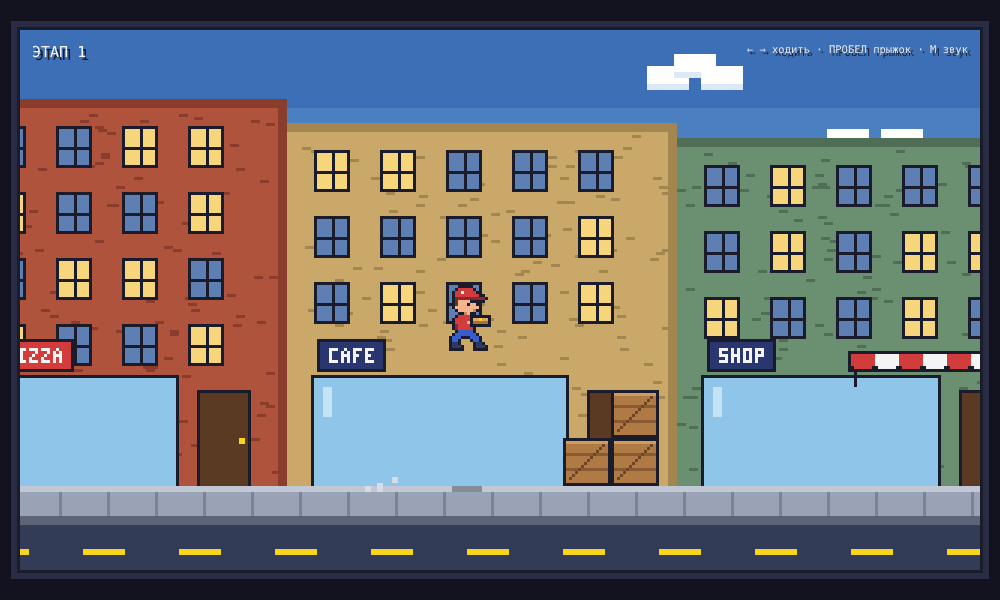
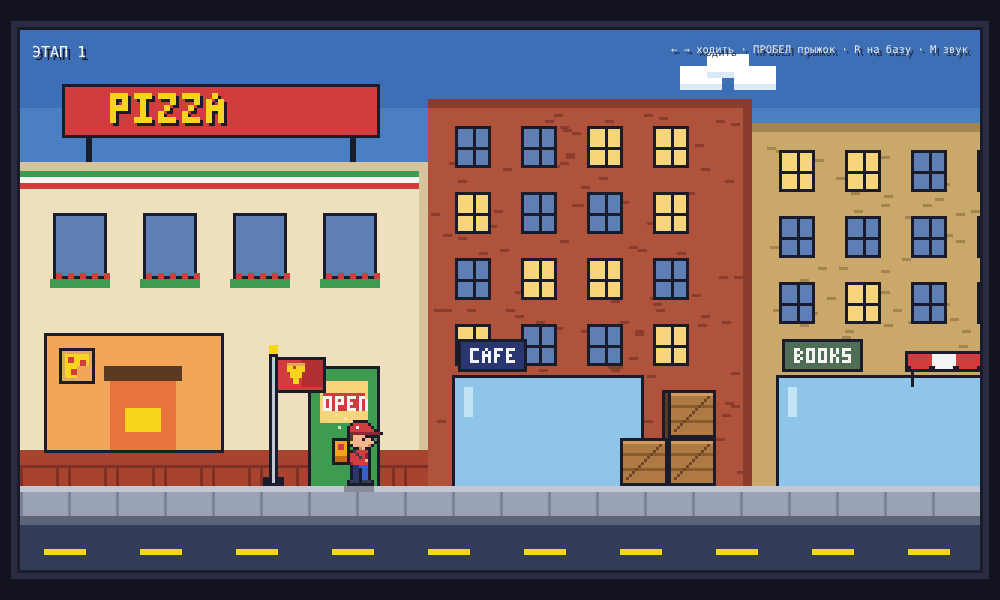
One pizzeria at the start as base and checkpoint; varied shop signs
Claude-Session: https://claude.ai/code/session_015jkYj5TZRwZghbMqW5hfRf

diff --git a/js/game.js b/js/game.js
@@ -116,17 +116,99 @@ const GLYPHS = {
   A: '010101111101101', C: '111100100100111', F: '111100110100100',
   E: '111100110100111', S: '111100111001111', H: '101101111101101',
   O: '111101101101111', '2': '111001111100111', '4': '101101111001001',
-  ' ': '000000000000000',
+  B: '110101110101110', K: '101101110101101', R: '110101110101101',
+  T: '111010010010010', M: '101111111101101', Y: '101101010010010',
+  N: '110101101101101', D: '110101101101110', L: '100100100100111',
+  U: '101101101101111', ' ': '000000000000000',
 };
 
-function pixelText(g, text, x, y, color) {
+function pixelText(g, text, x, y, color, size = 1) {
   g.fillStyle = color;
   [...text].forEach((ch, i) => {
     const bits = GLYPHS[ch] || GLYPHS[' '];
     for (let p = 0; p < 15; p++) {
-      if (bits[p] === '1') g.fillRect(x + i * 4 + (p % 3), y + Math.floor(p / 3), 1, 1);
+      if (bits[p] === '1') g.fillRect(x + (i * 4 + (p % 3)) * size, y + Math.floor(p / 3) * size, size, size);
     }
   });
+}
+
+// The one pizzeria: the courier's base and the checkpoint.
+const PIZZERIA = { x: 0, w: 136 };
+const CHECKPOINT = { x: 104, flagX: 84 }; // respawn spot and the flagpole
+
+function drawPizzeria(g) {
+  const { x, w } = PIZZERIA;
+  const top = 44;
+  // Cream plaster with a red-brick base
+  g.fillStyle = '#efe0bd';
+  g.fillRect(x, top, w, GROUND_Y - top);
+  g.fillStyle = '#d6c399';
+  g.fillRect(x, top, w, 3);
+  g.fillRect(x + w - 3, top, 3, GROUND_Y - top);
+  g.fillStyle = '#a8432f';
+  g.fillRect(x, 140, w, 12);
+  g.fillStyle = '#7f3022';
+  for (let bx = x; bx < x + w; bx += 8) g.fillRect(bx + ((bx / 8) % 2) * 4, 145, 1, 7);
+  g.fillRect(x, 145, w, 1);
+  // Rooftop sign
+  g.fillStyle = '#1a1c2c';
+  g.fillRect(x + 22, top - 22, 2, 22);
+  g.fillRect(x + w - 26, top - 22, 2, 22);
+  g.fillRect(x + 14, top - 26, w - 30, 18);
+  g.fillStyle = '#d23c3c';
+  g.fillRect(x + 15, top - 25, w - 32, 16);
+  pixelText(g, 'PIZZA', x + 31, top - 22, '#1a1c2c', 2);
+  pixelText(g, 'PIZZA', x + 30, top - 23, '#f7d51d', 2);
+  // Italian stripe under the roof
+  [['#3e9b4f', 0], ['#f4f4f4', 1], ['#d23c3c', 2]].forEach(([c, i]) => {
+    g.fillStyle = c;
+    g.fillRect(x, top + 3 + i * 2, w - 3, 2);
+  });
+  // Upper windows with flower boxes
+  for (let wx = x + 12; wx < x + w - 20; wx += 30) {
+    g.fillStyle = '#1a1c2c';
+    g.fillRect(wx - 1, 61, 18, 22);
+    g.fillStyle = '#5e7fb3';
+    g.fillRect(wx, 62, 16, 20);
+    g.fillStyle = '#3e9b4f';
+    g.fillRect(wx - 2, 83, 20, 3);
+    g.fillStyle = '#d23c3c';
+    for (let f = 0; f < 5; f++) g.fillRect(wx + f * 4, 81, 2, 2);
+  }
+  // Shop window glowing from the pizza oven
+  g.fillStyle = '#1a1c2c';
+  g.fillRect(x + 8, 101, 60, 40);
+  g.fillStyle = '#f2a65a';
+  g.fillRect(x + 9, 102, 58, 38);
+  g.fillStyle = '#e8743b';
+  g.fillRect(x + 30, 116, 22, 24);
+  g.fillStyle = '#5a3a22';
+  g.fillRect(x + 28, 112, 26, 5);
+  g.fillStyle = '#f7d51d';
+  g.fillRect(x + 35, 126, 12, 8);
+  // Pizza drawn on the glass
+  g.fillStyle = '#1a1c2c';
+  g.fillRect(x + 13, 106, 12, 12);
+  g.fillStyle = '#e2a95c';
+  g.fillRect(x + 14, 107, 10, 10);
+  g.fillStyle = '#f7d51d';
+  g.fillRect(x + 15, 108, 8, 8);
+  g.fillStyle = '#d23c3c';
+  [[16, 109], [20, 110], [17, 113], [21, 114]].forEach(([px, py]) => g.fillRect(x + px, py, 2, 2));
+  g.fillStyle = '#f2a65a';
+  g.fillRect(x + 19, 112, 5, 5); // missing slice
+  // Door with an OPEN plate
+  g.fillStyle = '#1a1c2c';
+  g.fillRect(x + 96, 112, 24, 40);
+  g.fillStyle = '#3e9b4f';
+  g.fillRect(x + 97, 113, 22, 39);
+  g.fillStyle = '#f7d57a';
+  g.fillRect(x + 100, 117, 16, 14);
+  g.fillStyle = '#d23c3c';
+  g.fillRect(x + 101, 121, 14, 6);
+  pixelText(g, 'OPEN', x + 101, 122, '#f4f4f4');
+  g.fillStyle = '#f7d51d';
+  g.fillRect(x + 115, 136, 2, 2);
 }
 
 // Street facades, drawn at full scroll speed behind the courier.
@@ -136,8 +218,12 @@ const street = layer(WORLD_W, VIEW_H, (g) => {
     ['#b0533c', '#8a3d2c'], ['#c9a86a', '#a3854f'], ['#6b8f71', '#4f6e55'],
     ['#9a6fa5', '#77517f'], ['#c77d4e', '#9e5e37'],
   ];
-  const signs = ['PIZZA', 'CAFE', 'SHOP', '24', 'PIZZA'];
-  let x = 0;
+  const signs = [
+    ['CAFE', '#29366f'], ['BOOKS', '#4f6e55'], ['MARKET', '#c06f12'],
+    ['SHOP', '#29366f'], ['BAKERY', '#77517f'], ['24', '#1a1c2c'],
+  ];
+  drawPizzeria(g);
+  let x = PIZZERIA.x + PIZZERIA.w;
   let n = 0;
   while (x < WORLD_W) {
     const bw = 96 + Math.floor(r() * 48);
@@ -179,11 +265,11 @@ const street = layer(WORLD_W, VIEW_H, (g) => {
     g.fillStyle = '#f7d51d';
     g.fillRect(x + bw - 16, 136, 2, 2);
     // Sign
-    const label = signs[n % signs.length];
+    const [label, signColor] = signs[n % signs.length];
     const sw = label.length * 4 + 5;
     g.fillStyle = '#1a1c2c';
     g.fillRect(x + 10, 103, sw + 2, 11);
-    g.fillStyle = label === 'PIZZA' ? '#d23c3c' : '#29366f';
+    g.fillStyle = signColor;
     g.fillRect(x + 11, 104, sw, 9);
     pixelText(g, label, x + 14, 106, '#f4f4f4');
     x += bw;
@@ -272,6 +358,7 @@ function press(action) {
 
 window.addEventListener('keydown', (e) => {
   if (e.code === 'KeyM') { muted = !muted; return; }
+  if (e.code === 'KeyR' && started) { respawn(); return; }
   const action = KEYMAP[e.code];
   if (!action) { if (!started) start(); return; }
   e.preventDefault();
@@ -296,6 +383,10 @@ document.querySelectorAll('[data-action]').forEach((btn) => {
   btn.addEventListener('pointercancel', release);
 });
 canvas.addEventListener('pointerdown', () => { if (!started) start(); });
+document.querySelector('[data-base]').addEventListener('pointerdown', (e) => {
+  e.preventDefault();
+  if (started) respawn(); else start();
+});
 
 function start() {
   started = true;
@@ -306,7 +397,7 @@ function start() {
 // ---------- Courier ----------
 
 const player = {
-  x: 40, y: GROUND_Y - 24,
+  x: CHECKPOINT.x, y: GROUND_Y - 24,
   vx: 0, vy: 0,
   w: 10, h: 22, ox: 4, oy: 2, // hitbox inside the 18x24 sprite, centred on the body
   facing: 1,
@@ -438,6 +529,80 @@ function update(dt) {
   }
 }
 
+// ---------- Checkpoint ----------
+
+let awayFromBase = false; // set once the courier has walked off, so returning can be announced
+let flagCheer = 0;        // seconds left on the flag's celebration
+
+function respawn() {
+  puff(player.x + 9, player.y + 24, 8);
+  Object.assign(player, { x: CHECKPOINT.x, y: GROUND_Y - 24, vx: 0, vy: 0, facing: 1, landTime: 0, skidTime: 0 });
+  awayFromBase = false;
+  puff(player.x + 9, player.y + 24, 8);
+  beep(880, 220, 0.25, 'square', 0.05);
+}
+
+function updateCheckpoint(dt) {
+  const d = Math.abs(player.x + 9 - CHECKPOINT.flagX);
+  if (d > 160) awayFromBase = true;
+  if (awayFromBase && d < 20) {
+    awayFromBase = false;
+    flagCheer = 1.2;
+    toast('КОНТРОЛЬНАЯ ТОЧКА');
+    beep(523, 784, 0.12);
+    setTimeout(() => beep(784, 1046, 0.18), 120);
+  }
+  flagCheer = Math.max(0, flagCheer - dt);
+}
+
+let toastTimer = 0;
+function toast(text) {
+  const el = document.getElementById('toast');
+  el.textContent = text;
+  el.classList.remove('show');
+  void el.offsetWidth; // restart the animation
+  el.classList.add('show');
+  clearTimeout(toastTimer);
+  toastTimer = setTimeout(() => el.classList.remove('show'), 1800);
+}
+
+function drawFlag(cx) {
+  const x = CHECKPOINT.flagX - cx;
+  const wave = Math.floor(clock * (flagCheer > 0 ? 12 : 4)) % 2;
+  const lift = flagCheer > 0 ? Math.round(Math.abs(Math.sin(clock * 14)) * 3) : 0;
+  // Pole and base
+  ctx.fillStyle = '#1a1c2c';
+  ctx.fillRect(x - 1, 108, 3, 44);
+  ctx.fillRect(x - 3, 149, 7, 3);
+  ctx.fillStyle = '#c1c7d4';
+  ctx.fillRect(x, 109, 1, 42);
+  ctx.fillStyle = '#f7d51d';
+  ctx.fillRect(x - 1, 105, 3, 3);
+  // Pennant: a pizza slice on red
+  const fy = 110 - lift;
+  ctx.fillStyle = '#1a1c2c';
+  ctx.fillRect(x + 2, fy - 1, 15 + wave, 12);
+  ctx.fillStyle = '#d23c3c';
+  ctx.fillRect(x + 2, fy, 14 + wave, 10);
+  ctx.fillStyle = '#b02f30';
+  ctx.fillRect(x + 2 + 7 + wave, fy + (wave ? 0 : 1), 7, 9 - (wave ? 0 : 1));
+  ctx.fillStyle = '#f7d51d';
+  ctx.fillRect(x + 5, fy + 2, 6, 2);
+  ctx.fillRect(x + 6, fy + 4, 4, 2);
+  ctx.fillRect(x + 7, fy + 6, 2, 2);
+  ctx.fillStyle = '#d23c3c';
+  ctx.fillRect(x + 7, fy + 2, 1, 1);
+  ctx.fillStyle = '#e2a95c';
+  ctx.fillRect(x + 5, fy + 1, 6, 1);
+  if (flagCheer > 0) {
+    ctx.fillStyle = '#f7d51d';
+    for (let i = 0; i < 4; i++) {
+      const a = clock * 6 + i * 1.57;
+      ctx.fillRect(Math.round(x + 9 + Math.cos(a) * 14), Math.round(fy + 5 + Math.sin(a) * 9), 1, 1);
+    }
+  }
+}
+
 // ---------- Render ----------
 
 let camX = 0;
@@ -473,6 +638,7 @@ function render() {
 
   for (const a of awnings) drawAwning(a, cx);
   for (const c of crates) ctx.drawImage(crateImg, c.x - cx, c.y);
+  drawFlag(cx);
 
   ctx.fillStyle = '#d6dbe4';
   for (const d of dust) ctx.fillRect(Math.round(d.x - cx), Math.round(d.y), 2, 2);
@@ -508,7 +674,7 @@ function frame(now) {
   acc += Math.min(0.1, (now - last) / 1000);
   last = now;
   while (acc >= STEP) {
-    if (started) update(STEP);
+    if (started) { update(STEP); updateCheckpoint(STEP); }
     else clock += STEP;
     acc -= STEP;
   }

diff --git a/style.css b/style.css
@@ -117,3 +117,34 @@ canvas {
 }
 
 .pad button.down { transform: translateY(3px); filter: brightness(0.85); }
+
+/* Short announcement, e.g. reaching the checkpoint */
+.toast {
+  position: absolute;
+  left: 50%;
+  top: 28%;
+  transform: translate(-50%, 0);
+  font-size: calc(var(--px) * 7);
+  line-height: 1.4;
+  color: var(--yellow);
+  text-shadow: var(--px) var(--px) 0 var(--red), calc(var(--px) * 2) calc(var(--px) * 2) 0 var(--outline);
+  white-space: nowrap;
+  pointer-events: none;
+  opacity: 0;
+}
+
+.toast.show { animation: toast 1.8s steps(12) forwards; }
+
+@keyframes toast {
+  0% { opacity: 0; transform: translate(-50%, calc(var(--px) * 8)); }
+  15%, 80% { opacity: 1; transform: translate(-50%, 0); }
+  100% { opacity: 0; transform: translate(-50%, calc(var(--px) * -4)); }
+}
+
+.pad .pad-base {
+  width: 52px;
+  height: 52px;
+  font-size: 16px;
+  margin-left: auto;
+  margin-right: 16px;
+}

diff --git a/index.html b/index.html
@@ -16,8 +16,10 @@
 
       <div class="hud">
         <span>ЭТАП 1</span>
-        <span class="hint">← → ходить · ПРОБЕЛ прыжок · M звук</span>
+        <span class="hint">← → ходить · ПРОБЕЛ прыжок · R на базу · M звук</span>
       </div>
+
+      <div id="toast" class="toast" aria-live="polite"></div>
 
       <div id="title" class="title">
         <h1>ДОСТАВКА<br>ЗА 5 МИНУТ</h1>
@@ -31,6 +33,7 @@
       <button data-action="left" aria-label="Влево">◀</button>
       <button data-action="right" aria-label="Вправо">▶</button>
     </div>
+    <button class="pad-base" data-base aria-label="На базу">R</button>
     <button class="pad-jump" data-action="jump" aria-label="Прыжок">A</button>
   </div>
 

diff --git a/README.md b/README.md
@@ -14,13 +14,16 @@
 |---|---|---|
 | Ходить | ← → или A D | кнопки ◀ ▶ |
 | Прыжок | Пробел, ↑, W или Z | кнопка A |
+| Вернуться на базу | R | кнопка R |
 | Звук вкл/выкл | M | — |
 
 Чем дольше держишь прыжок, тем выше прыгает курьер. Можно прыгнуть сквозь навес снизу и встать на него.
 
+В начале улицы стоит пиццерия, единственная в городе: это база курьера и контрольная точка. Рядом с дверью флажок с кусочком пиццы. Если уйти далеко и вернуться, флажок радостно машет и появляется надпись «КОНТРОЛЬНАЯ ТОЧКА». Клавиша R в любой момент возвращает курьера к пиццерии.
+
 ## Этапы
 
-- [x] **Этап 1.** Курьер с пиццей ходит и прыгает по улице: ящики, навесы, параллакс-город, звуки.
+- [x] **Этап 1.** Курьер с пиццей ходит и прыгает по улице: ящики, навесы, параллакс-город, звуки, пиццерия-контрольная точка.
   - Анимация курьера: цикл шага из 4 кадров с качанием корпуса, дыхание и моргание в покое, взлёт, падение, приземление с приседом, торможение с разворотом. Пицца едет в термосумке-рюкзаке, из неё идёт пар, свободная рука качается в такт шагу.
 
   ![Кадры курьера](docs/courier-frames.png)
